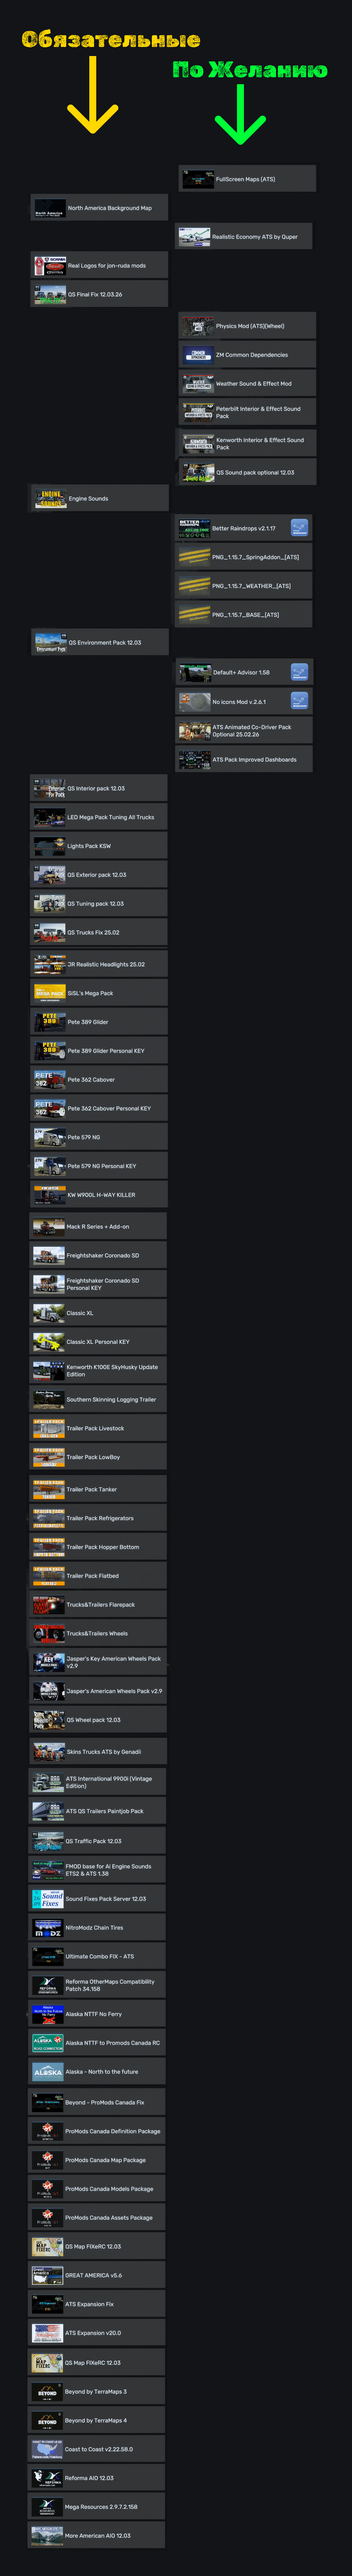
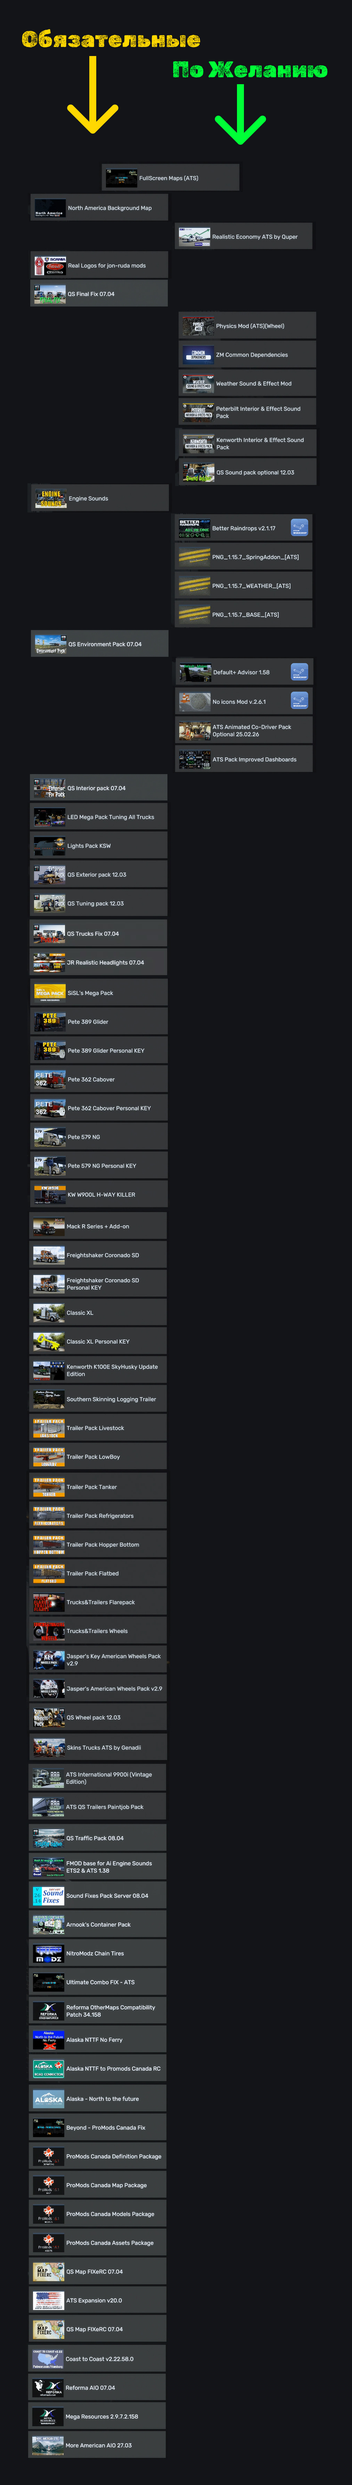
upd

diff --git a/src/data/combos/v1.58.js b/src/data/combos/v1.58.js
@@ -177,7 +177,7 @@ export const combos_v1_58 = [
     preview: "img/combos/158/ats-server/ats-server-preview.jpg",
     version_game: "1.58",
     version: "server",
-    date: "27.03.26",
+    date: "08.04.26",
     video: "G4ADUHZ1ruI",
     image_center: "img/combos/158/ats-server/ats-server-center.jpg",
     profile: "https://sharemods.com/lpv1v4tmx693/ATS_SERVER_PROFILE.zip.html",
